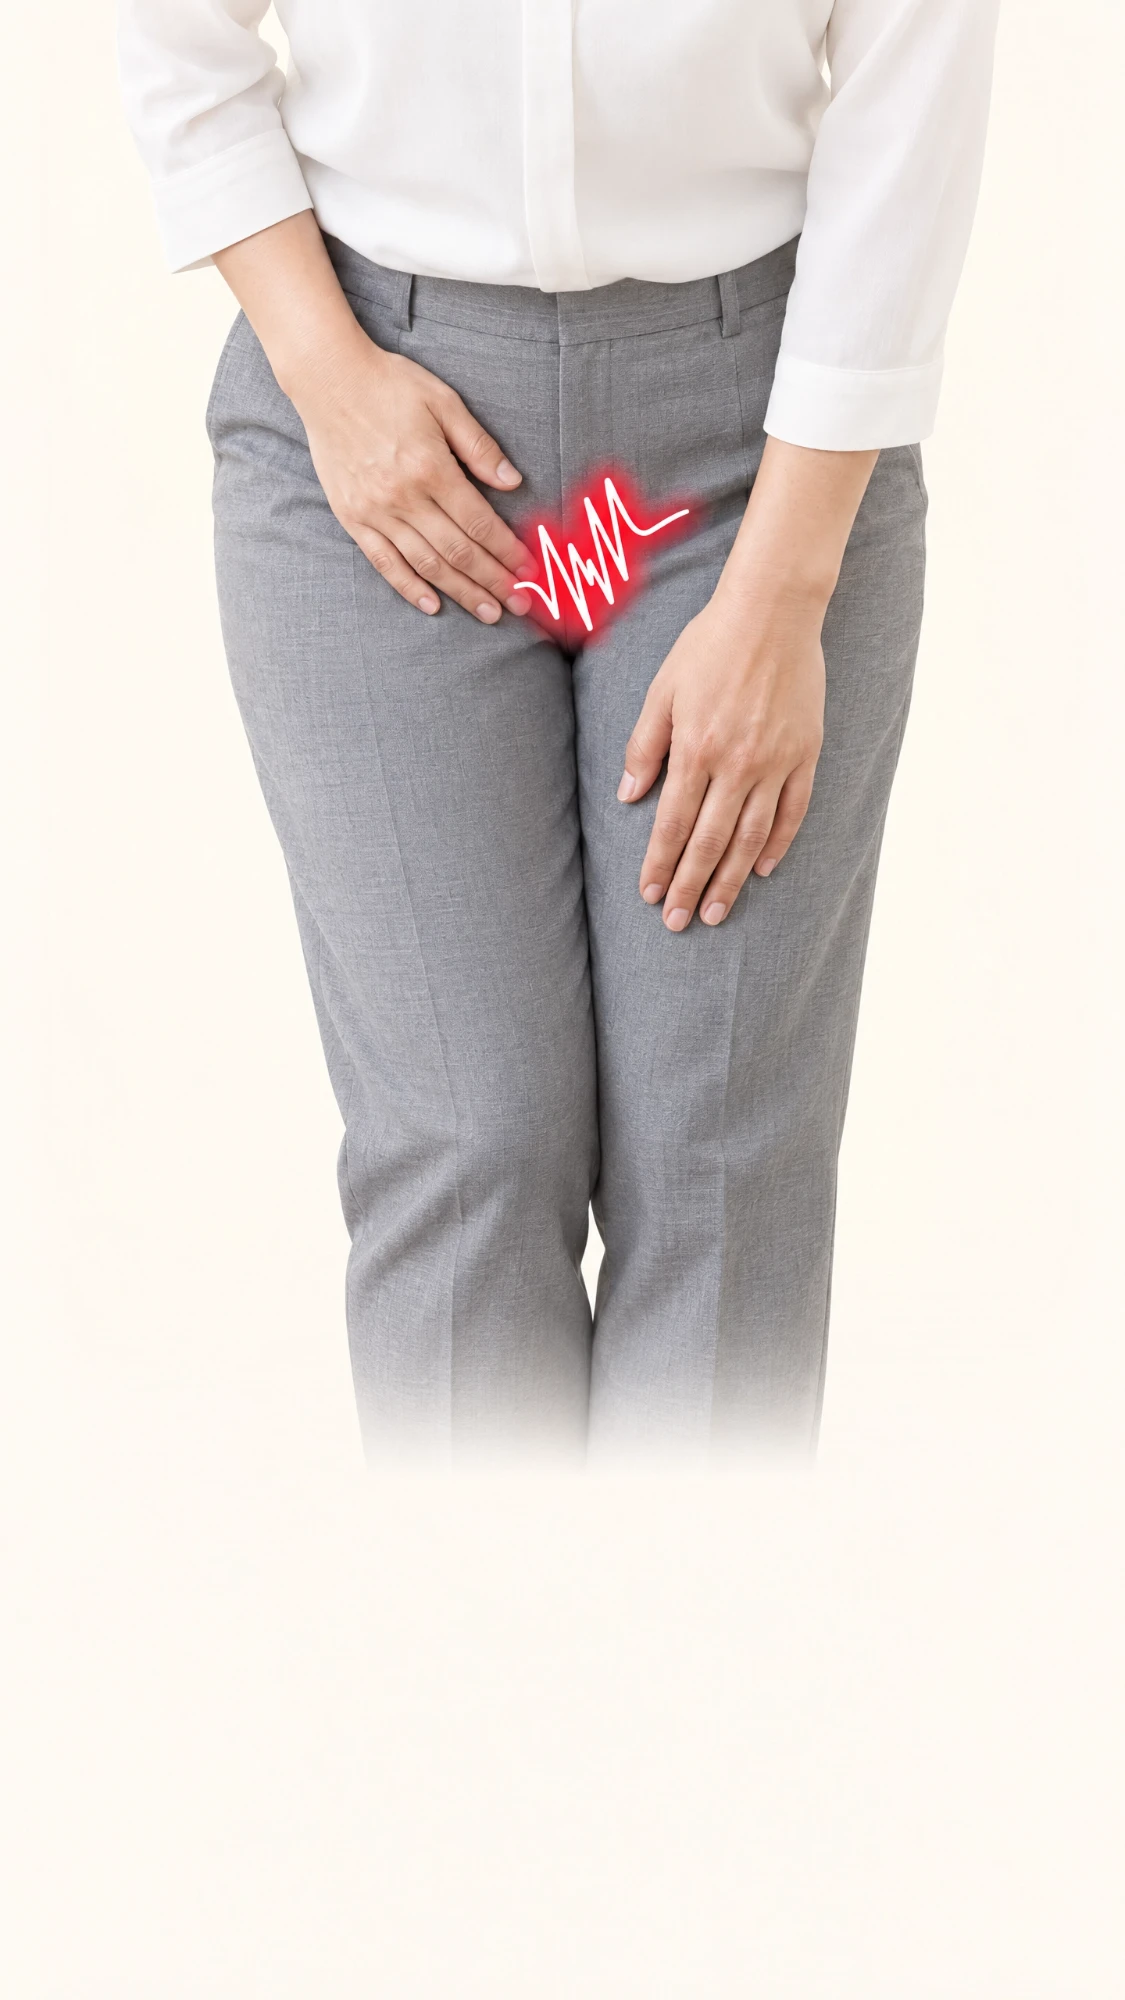
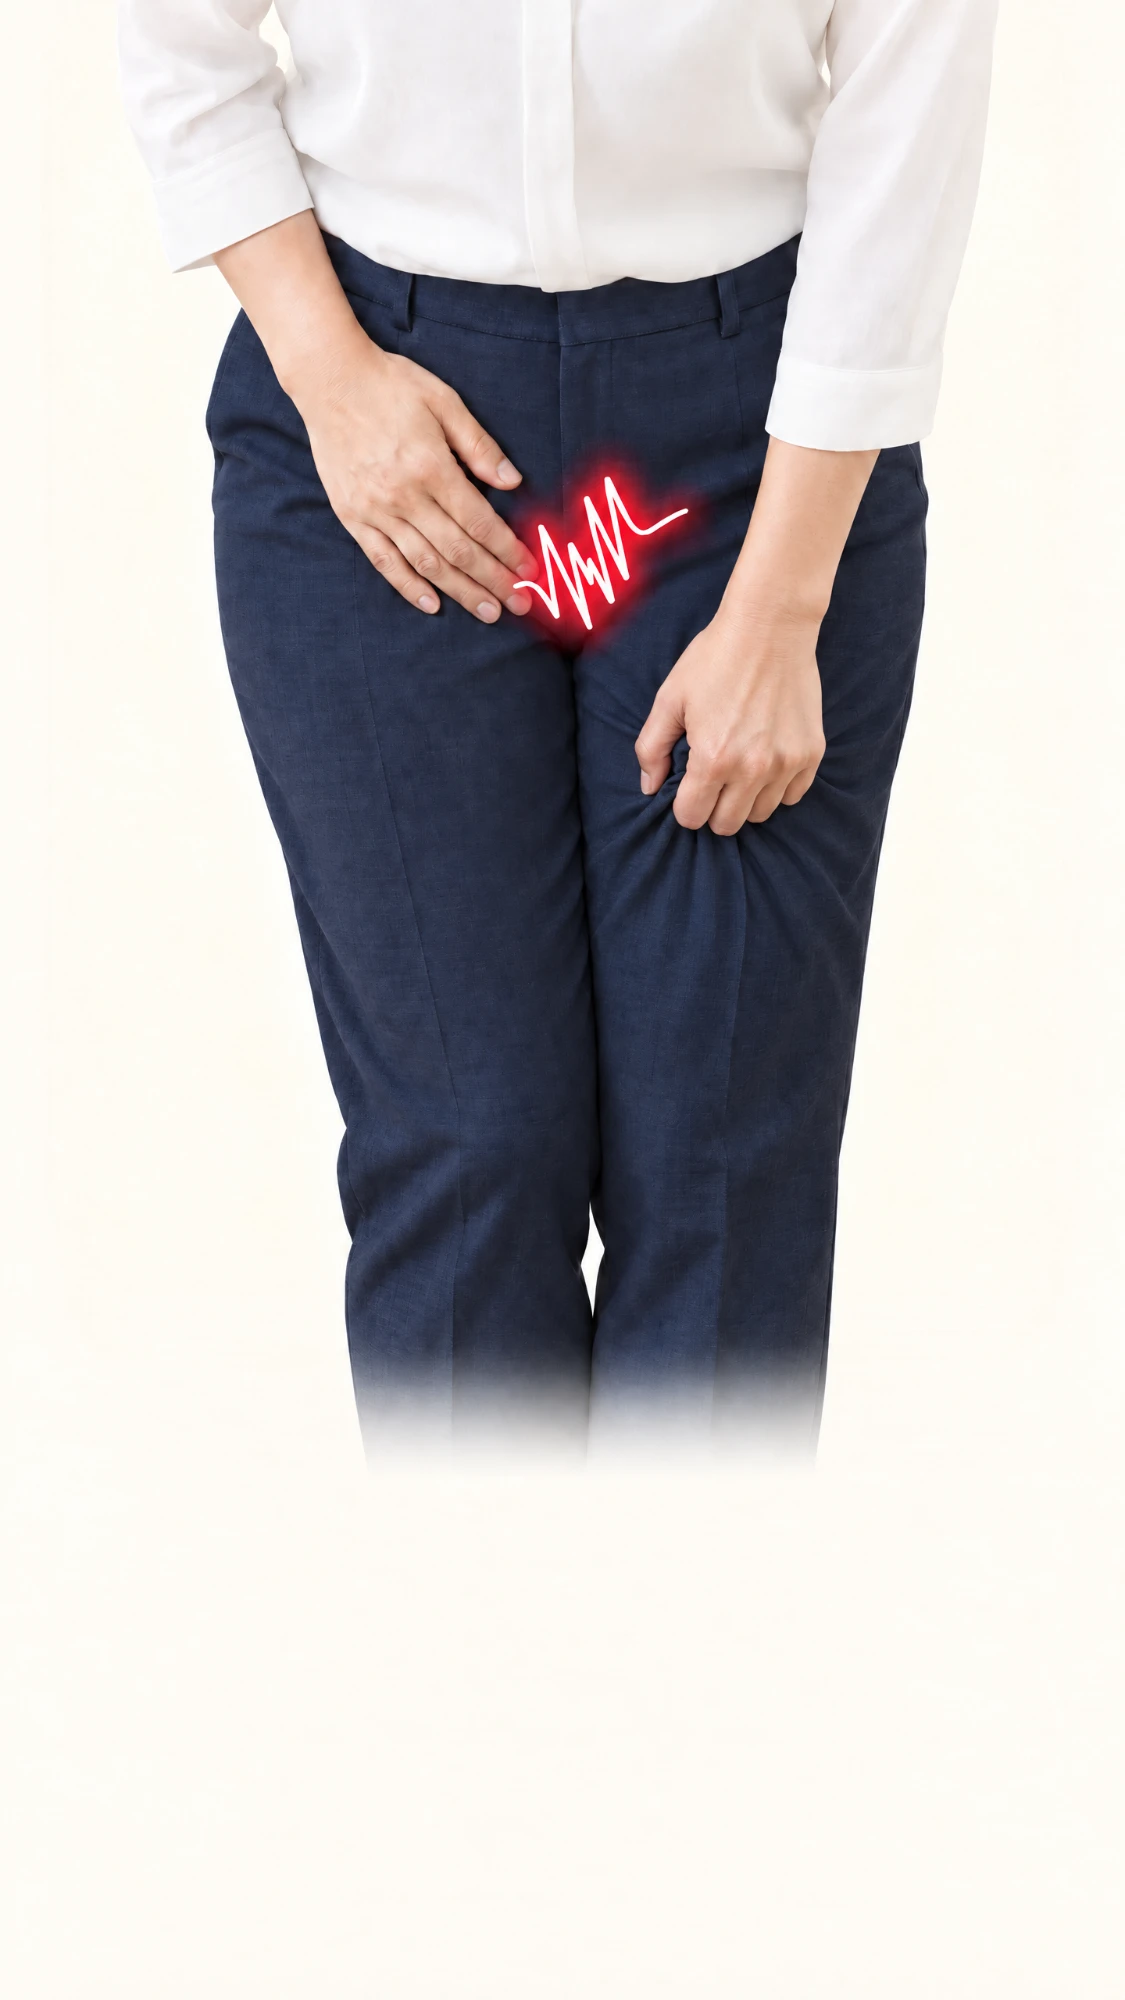
FV画像をネイビーパンツの写真に差し替え

Changed region(s): [[0.1867, 0.093, 0.84, 0.713]]

diff --git a/index.html b/index.html
@@ -216,7 +216,7 @@
       <p class="fv-hook">生理のたびに感じるかゆみや不快感。<br>ナプキンを変えても変わらないなら、<br>デリケートゾーンから変えてみない？</p>
       <p class="sub">医学的なことと、そうでないことを分けて、やさしくお伝えします。</p>
     </div>
-    <div class="fv-photo"><img src="assets/fv.webp?v=3" alt="下腹部に手を当てる女性のイメージ"></div>
+    <div class="fv-photo"><img src="assets/fv.webp?v=4" alt="下腹部に手を当てる女性のイメージ"></div>
     <div class="fv-bottom">
       <div class="fv-date">
         <div><b>12/9（水）21:20〜</b><small>40分／Zoomでオンライン開催／定員8名</small></div>
